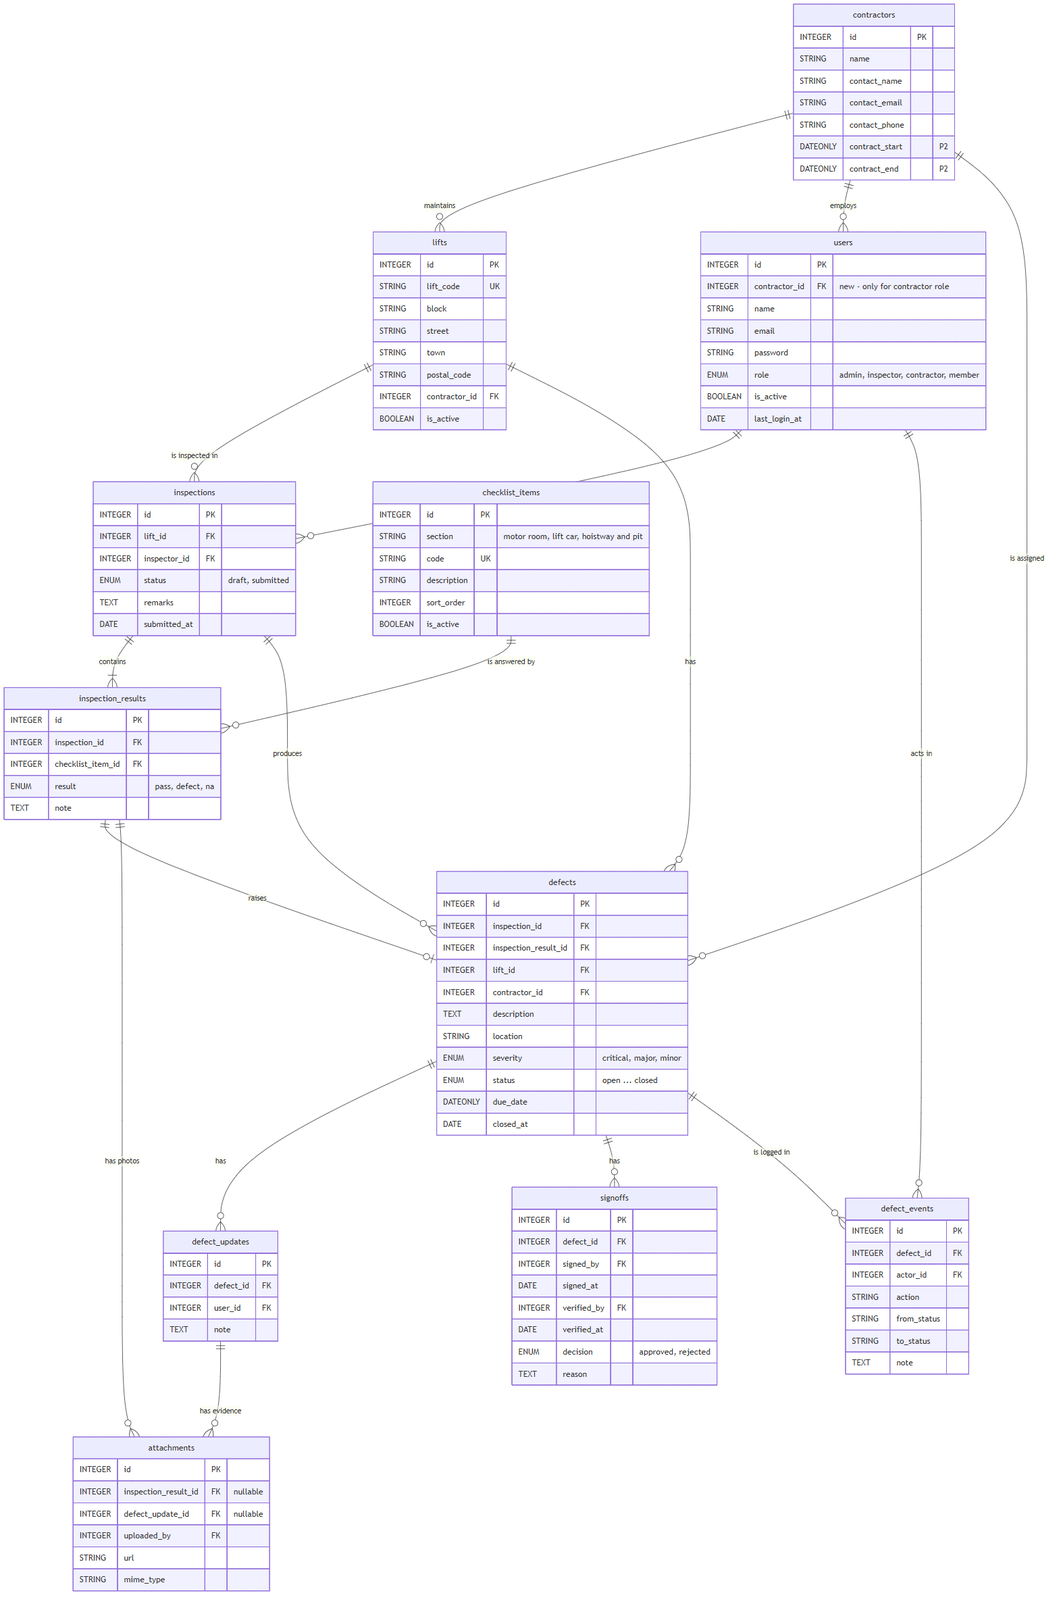
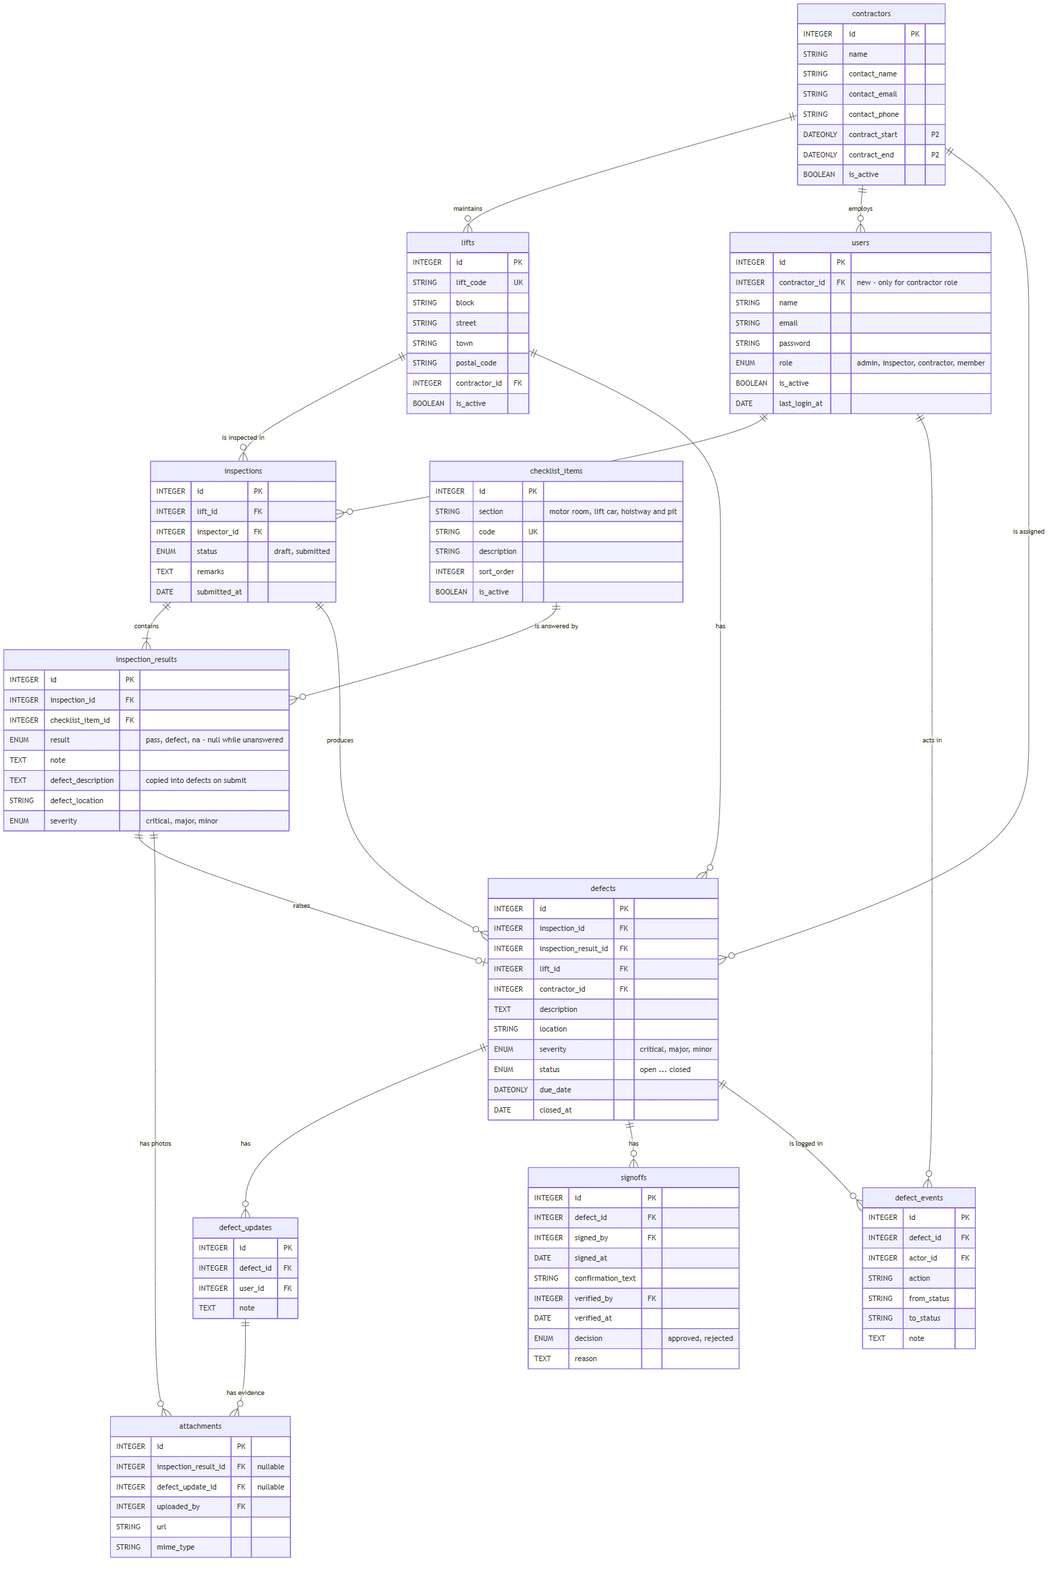
Document the skeleton and how to work independently
Replace the wait-for-each-other build order with the skeleton model:
file ownership, the only cross-team contact points, the full API
contract, and the db:seed command. Update the ER diagram for the new
columns.

diff --git a/design/feature-dependencies.md b/design/feature-dependencies.md
@@ -51,30 +51,88 @@ Changes to make in `IT Innovation Features.docx` before building. Most remove du
 
 ---
 
-## Dependency Table
+## Working Independently
 
-| Feature / What Needs It | Owned By | Depends On | Owned By | Type | Can Mock? |
-|--------------------------|----------|-----------|----------|------|-----------|
-| Lift picker, auto-filled lift and contractor (F01.1, F01.2) | Kandha | `lifts`, `contractors` tables + `GET /api/lifts?q=` | Kwan | DB + API | Yes - seed rows |
-| Inspector ID and timestamp (F01.8) | Kandha | `req.user` from `authenticate` | Group | Auth | N/A - exists |
-| Defect creation on submit (F02.1) | Si Qi | `inspections`, `inspection_results` tables | Kandha | DB | Yes - seed a submitted inspection |
-| Inspection submit creates defects (F01.10) | Kandha | `defectService.createFromInspection()` | Si Qi | Service | Yes - no-op until Si Qi's service lands |
-| Auto-assign to contractor (F02.4) | Si Qi | `lifts.contractor_id` | Kwan | DB | Yes - seed rows |
-| Contractor inbox (F03.2) | Jerald | `users.contractor_id`, `defects` table | Kwan, Si Qi | DB | Yes - seed a contractor user + defects |
-| Acknowledge, sign-off, verify (F03.3, F03.7, F03.8) | Jerald | `defectService.transition()` | Si Qi | Service | Yes - update status directly in dev only |
-| Photo evidence on checklist (F01.7) | Kandha | Upload service + `attachments` table | Jerald | Service | Yes - skip photos until it lands |
-| Defect history, sign-off history (F02.10, F03.10) | Si Qi, Jerald | `defect_events` table + `logEvent()` | Kwan | DB | Yes - skip log write in dev |
-| Overview counts (F08) | Si Qi | `defects`, `inspections` read access | Si Qi, Kandha | DB (read) | Yes - seed data |
-| Inspection export (F05.3) | Kandha | Report/export helper | Si Qi | Service | Yes - build own CSV first, merge later |
-| All protected routes | Everyone | `authenticate` + `authorise(...roles)` | Group | Auth | N/A - exists |
+Nobody waits for anybody. The skeleton PR (`feature/skeleton`) already holds every table, model, router, page route, seed row and cross-team function, so each person builds only inside their own files.
+
+**Three rules:**
+
+1. **Only the owner writes to their own tables.** Everyone else goes through the owner's function (table below). Owners can then change their internals without breaking anyone.
+2. **Build against the seed data, not each other's screens.** `npm run db:seed` puts a defect in every status, so the contractor inbox, verification and overview all have data before the checklist exists.
+3. **Mock other people's functions in your tests** (`jest.mock('../../src/services/defectService')`). Your CI passes whether or not they have finished.
+
+### Who owns which files
+
+| Member | Backend | Frontend |
+|--------|---------|----------|
+| Kwan | `routes/liftRoutes.js`, `contractorRoutes.js`, `userRoutes.js`, `services/auditService.js`, `seed.js`, models `Contractor`, `Lift`, `DefectEvent` | `pages/lifts/`, `pages/admin/` |
+| Kandha | `routes/inspectionRoutes.js`, models `ChecklistItem`, `Inspection`, `InspectionResult` | `pages/inspections/` |
+| Si Qi | `routes/defectRoutes.js`, `services/defectService.js`, model `Defect` | `pages/defects/`, `pages/overview/`, `components/StatusBadge.jsx` |
+| Jerald | `routes/rectificationRoutes.js`, `services/attachmentService.js`, models `DefectUpdate`, `Attachment`, `Signoff` | `pages/contractor/`, `components/PhotoUpload.jsx` |
+
+Add your own controllers, services and validators as new files (e.g. `controllers/liftController.js`). The shared files (`models/index.js`, `routes/index.js`, `App.jsx`, `router/routes.js`) should not need changes. If they do, tell the team first.
+
+### The only contact points
+
+Every cross-team call goes through one of these. They already work in the skeleton, so you can call them on day 1.
+
+| Function or component | Owner | Called by | State in the skeleton |
+|-----------------------|-------|-----------|-----------------------|
+| `defectService.createFromInspection(inspectionId, { transaction })` | Si Qi | Kandha's submit | Works: one `open` defect per failed item, lift's contractor, due date from severity, safe to call twice |
+| `defectService.transition(defectId, toStatus, user, { note, reason, transaction })` | Si Qi | Jerald's acknowledge, update, sign-off and verify | Works: enforces the status table, role and company, logs history |
+| `defectService.isOverdue(defect, today)` | Si Qi | Everyone (backend) | Works |
+| `auditService.logEvent({ defectId, actorId, action, fromStatus, toStatus, note }, { transaction })` | Kwan | Si Qi's `transition()`, anyone recording history | Works |
+| `attachmentService.storePhoto(...)` + `createAttachment(...)` | Jerald | Kandha (checklist photos) | `storePhoto` is a stub returning a placeholder URL |
+| `<StatusBadge status dueDate />` | Si Qi | Kandha, Jerald | Works, including the Overdue pill |
+| `<PhotoUpload onUploaded label />` | Jerald | Kandha | Stub: disabled button |
+| URL `/inspections/new?liftId=<id>` | Kandha | Kwan's Lifts page | Routed to Kandha's page |
+| URL `/defects/<id>` | Jerald | Si Qi's Defects page, Kandha's history | Routed to Jerald's page |
+
+`req.user` now also carries `contractorId` (the lift company of a contractor account, `null` otherwise), so contractor routes can filter by company without another query.
 
 ---
 
-## Shared Contracts (agree before coding)
+## API Contract
+
+Every endpoint below is mounted and role-guarded in the skeleton, and answers `501 NOT_IMPLEMENTED` until its owner builds it. `tests/shared/skeletonRoutes.test.js` checks the guards - when you build an endpoint, move its row out of that test into your own tests.
+
+| Method | Path | Roles | Owner | Purpose |
+|--------|------|-------|-------|---------|
+| GET | `/api/lifts?q=` | inspector, admin | Kwan | Search lifts by code, block or street |
+| GET | `/api/lifts/:id` | inspector, admin | Kwan | Lift with its contractor |
+| POST / PATCH | `/api/lifts`, `/api/lifts/:id` | admin | Kwan | Create, edit |
+| POST | `/api/lifts/import` | admin | Kwan | CSV/Excel import -> accepted count + rejected rows with reasons |
+| GET | `/api/contractors`, `/api/contractors/:id` | inspector, admin | Kwan | List, detail with lifts |
+| POST / PATCH | `/api/contractors`, `/api/contractors/:id` | admin | Kwan | Create, edit |
+| GET / POST / PATCH | `/api/users`, `/api/users/:id` | admin | Kwan | User management, link contractor accounts |
+| GET | `/api/checklist-items` | inspector, admin | Kandha | Active items by section |
+| POST | `/api/inspections` | inspector | Kandha | `{ liftId }` -> new draft |
+| GET | `/api/inspections?liftId=&from=&to=` | inspector, admin | Kandha | History |
+| GET | `/api/inspections/export` | inspector, admin | Kandha | CSV |
+| GET | `/api/inspections/:id` | inspector, admin | Kandha | Inspection, answers, defects |
+| PUT | `/api/inspections/:id/results` | inspector | Kandha | Save draft answers |
+| POST | `/api/inspections/:id/submit` | inspector | Kandha | Validate, submit, create defects |
+| GET | `/api/defects?contractorId=&status=&severity=&overdue=&liftId=` | inspector, admin | Si Qi | Filtered list |
+| GET | `/api/defects/export` | inspector, admin | Si Qi | CSV |
+| GET | `/api/defects/:id` | inspector, admin, contractor (own company) | Si Qi | Detail |
+| GET | `/api/defects/:id/history` | inspector, admin, contractor (own company) | Si Qi | `defect_events` |
+| PATCH | `/api/defects/:id/assign` | admin | Si Qi | Reassign with reason |
+| GET | `/api/overview?from=&to=` | admin | Si Qi | Counts |
+| GET | `/api/inbox?status=` | contractor | Jerald | Own company's defects |
+| POST | `/api/defects/:id/acknowledge` | contractor | Jerald | `open` -> `acknowledged` |
+| POST | `/api/defects/:id/updates` | contractor | Jerald | Progress note; first one -> `in_progress` |
+| POST | `/api/defects/:id/signoff` | contractor | Jerald | Needs evidence -> `pending_verification` |
+| POST | `/api/defects/:id/verify` | inspector, admin | Jerald | `{ decision, reason }` -> `closed` or back to `in_progress` |
+| GET | `/api/defects/:id/signoffs` | inspector, admin, contractor (own company) | Jerald | Sign-off history |
+| POST | `/api/attachments` | inspector, contractor | Jerald | Upload a photo -> `{ id, url }` |
+
+---
+
+## Shared Contracts
 
 ### Defect status values
 
-`open`, `acknowledged`, `in_progress`, `pending_verification`, `closed`. Transitions and who may make them are in [workflow-diagram.md](workflow-diagram.md). Si Qi owns `defectService.transition(defectId, toStatus, user, { note, reason })`; everyone else calls it.
+`open`, `acknowledged`, `in_progress`, `pending_verification`, `closed`. Transitions and who may make them are in [workflow-diagram.md](workflow-diagram.md), and in code as `TRANSITIONS` in `services/defectService.js`.
 
 ### Severity and due dates
 
@@ -84,52 +142,44 @@ Changes to make in `IT Innovation Features.docx` before building. Most remove du
 | `major` | TBC with EMS (placeholder: 7) |
 | `minor` | TBC with EMS (placeholder: 14) |
 
-The day counts live in one config object in Si Qi's service, so changing them after the EMS answer is a one-line edit.
+The day counts live in `SEVERITY_DUE_DAYS` in `services/defectService.js`, so changing them after the EMS answer is a one-line edit.
 
 ### Display IDs
 
 `INS-000123` for inspections and `DEF-000123` for defects, built from the primary key. Not stored as a separate column.
 
-### Shared components
+### Changing a shared table
 
-| Component | Builder | Used by |
-|-----------|---------|---------|
-| `LiftPicker` | Kwan | Kandha |
-| Toasts (success / error after every action, F06.4) | Kwan | Everyone |
-| `PhotoUpload` + `POST /api/attachments` | Jerald | Kandha, Jerald |
-| `StatusBadge` (incl. overdue flag) | Si Qi | Si Qi, Jerald, Kandha |
-| `ChecklistItemRow` | Kandha | Kandha |
-
-### Hotspot files
-
-`models/index.js`, `routes/index.js`, `App.jsx`, `routes.js`, `AppLayout.jsx`: add only your own lines and merge small PRs often.
+The skeleton migration (`20261113000000-create-spot-check-tables.js`) is never edited once applied. To change your own table, add a new migration and update your own model file, then post in the group chat which columns changed.
 
 ---
 
 ## Suggested Build Order
 
 ```
-Wave 0 - Kwan (everyone blocked until this is done)
-  ├── One schema PR: every table in er-diagram.md + migrations
-  │   + associations in models/index.js
-  ├── Seed: lifts, contractors, contractor logins, 25 checklist items
-  ├── Si Qi: stub defectService.transition()
-  └── Jerald: stub upload service (POST /api/attachments)
-      Done when: npm run db:migrate + seed run cleanly on a fresh database
+Skeleton - done (feature/skeleton PR)
+  ├── Every table, model, association, router, page route and nav entry
+  ├── Seed: 3 contractors, 8 lifts, 25 checklist items, demo logins,
+  │         one defect in every status (two overdue)
+  └── Working contracts: createFromInspection(), transition(), logEvent(),
+      StatusBadge; stubs: storePhoto(), PhotoUpload
+      After merge: one person runs npm run db:migrate + npm run db:seed on the
+      shared database and shares the demo passwords privately
 
-Wave 1 - P0 loop, all four in parallel
-  ├── Kwan:   GET /api/lifts (search), lift + contractor CRUD, bulk lift import
+Wave 1 - P0, all four in parallel, nobody waiting
+  ├── Kwan:   lift search + detail, lift and contractor CRUD, bulk lift import
   ├── Kandha: checklist page, Pass/Defect, defect capture, submit
-  ├── Si Qi:  createFromInspection(), auto-assign, due dates, defects list by contractor
-  └── Jerald: contractor inbox, acknowledge, progress, evidence, e-sign, verify
-      Done when: inspector fails an item -> defect lands in the contractor's inbox
+  ├── Si Qi:  defect list by contractor, detail, due-date rules, reassign
+  └── Jerald: inbox, acknowledge, progress, evidence, e-sign, verify
+      Done when: everyone runs the whole loop together once -
+                 inspector fails an item -> defect lands in the contractor's inbox
                  -> contractor signs off -> inspector approves -> Closed
 
 Wave 2 - P1 widening
-  ├── Kwan:   import validation + summary, user management, audit log
+  ├── Kwan:   import validation + summary, user management, audit log screens
   ├── Kandha: All Pass, drafts, photos, history, inspection report
-  ├── Si Qi:  filters, overdue flag, history, overview counts
-  └── Jerald: sign-off history
+  ├── Si Qi:  filters, overdue flag, history, export, overview counts
+  └── Jerald: real photo storage, sign-off history
       Done when: every P1 acceptance criterion has a passing test
 
 Wave 3 - P2 and polish (only items EMS confirms)
@@ -143,7 +193,7 @@ Wave 3 - P2 and polish (only items EMS confirms)
 
 ## Flags for Team Discussion
 
-**1. One schema PR up front.** Kwan writes every core migration in Wave 0 so four people are not editing `models/index.js` at once and Si Qi's `defects` table is not waiting on Kandha's `inspections` table.
+**1. Skeleton first (done).** The skeleton PR creates every table, route and page at once, so nobody edits `models/index.js` or waits on another person's table. Merge it before starting Wave 1.
 
 **2. Public sign-up.** Sign-up creates a `member`, but inspectors and contractors are created by admin. Decide whether to turn sign-up off or keep it for the rubric.
 

diff --git a/design/architecture.md b/design/architecture.md
@@ -4,7 +4,7 @@
 
 Diagram: [architecture-diagram.md](architecture-diagram.md). Tables: [er-diagram.md](er-diagram.md). Pages: [screens.md](screens.md).
 
-Items marked **(planned)** are not in the repo yet; everything else is installed and in use.
+Items marked **(planned)** are not in the repo yet. **(placeholder)** pages and **(stub)** functions exist from the skeleton PR with their final names and signatures, but their owner still has to build them. Everything else is installed and in use.
 
 ---
 
@@ -62,21 +62,21 @@ src/
 ├── api/             # Shared Axios instance (exists)
 ├── components/      # Shared components (exists)
 │   ├── ui/          # shadcn/ui primitives (exists: button, card, input)
-│   ├── LiftPicker.jsx       # (planned - Kwan)   search and pick a lift
-│   ├── PhotoUpload.jsx      # (planned - Jerald) photo upload used by checklist and repair evidence
-│   └── StatusBadge.jsx      # (planned - Si Qi)  defect status + overdue flag
+│   ├── PagePlaceholder.jsx  # (exists - shared) temporary body for skeleton pages
+│   ├── PhotoUpload.jsx      # (stub - Jerald)    photo upload used by checklist and repair evidence
+│   └── StatusBadge.jsx      # (exists - Si Qi)   defect status + overdue flag
 ├── context/         # AuthContext (exists)
 ├── hooks/           # useAuth (exists)
 ├── layouts/         # AppLayout - sidebar on desktop, top bar on mobile (exists)
 ├── lib/             # cn(), formatCurrency(), formatDate() (exists)
 ├── pages/
 │   ├── auth/        # Login (exists)
-│   ├── lifts/       # (planned - Kwan)   Lifts page, inspector home
-│   ├── admin/       # Admin tabs: lifts, contractors, users, import (exists as a stub - Kwan)
-│   ├── inspections/ # (planned - Kandha) checklist, history, report
-│   ├── defects/     # (planned - Si Qi)  defects by contractor
-│   ├── overview/    # (planned - Si Qi)  admin home with counts
-│   └── contractor/  # (planned - Jerald) inbox and defect detail
+│   ├── lifts/       # (placeholder - Kwan)   Lifts page, inspector home
+│   ├── admin/       # (placeholder - Kwan)   Admin tabs: lifts, contractors, users, import
+│   ├── inspections/ # (placeholder - Kandha) checklist, history, report
+│   ├── defects/     # (placeholder - Si Qi)  defects by contractor
+│   ├── overview/    # (placeholder - Si Qi)  admin home with counts
+│   └── contractor/  # (placeholder - Jerald) inbox and defect detail
 ├── router/          # ProtectedRoute, RoleRoute, NAV_ROUTES, ROLE_HOMES (exists)
 └── schemas/         # Yup schemas for forms (exists)
 ```
@@ -86,17 +86,17 @@ src/
 ```
 src/
 ├── config/          # Sequelize connection + testConnection (exists)
-├── models/          # One file per model; all associations in models/index.js (exists: User)
-├── routes/          # One router per resource, mounted under /api (exists: auth)
-├── controllers/     # req/res only (exists: auth)
+├── models/          # One file per model; all associations in models/index.js (exists: every table)
+├── routes/          # One router per owner, all mounted under /api (exists; placeholders answer 501)
+├── controllers/     # req/res only (exists: auth; owners add their own)
 ├── services/        # Business logic, no req/res (exists: userService)
 │   │                #   liftService.js        (planned - Kwan)   lift and contractor records, search
 │   │                #   importService.js      (planned - Kwan)   parse, validate and commit bulk lift imports
-│   │                #   auditService.js       (planned - Kwan)   logEvent() - writes defect_events rows
+│   │                #   auditService.js       (exists - Kwan)    logEvent() - writes defect_events rows
 │   │                #   inspectionService.js  (planned - Kandha) drafts, submit, history
-│   │                #   defectService.js      (planned - Si Qi)  createFromInspection(), transition(), due dates, overdue
+│   │                #   defectService.js      (exists - Si Qi)   createFromInspection(), transition(), due dates, overdue
 │   │                #   reportService.js      (planned - Si Qi)  filtered reports and CSV export for inspections and defects
-│   │                #   attachmentService.js  (planned - Jerald) photo storage
+│   │                #   attachmentService.js  (stub - Jerald)    photo storage
 │   │                #   signoffService.js     (planned - Jerald) contractor sign-off and inspector verification
 ├── middleware/      # authenticate (JWT) and authorise(...roles) (exists)
 ├── validators/      # Yup schemas for request bodies (exists)

diff --git a/AGENTS.md b/AGENTS.md
@@ -59,6 +59,7 @@ Do **not** commit `.env`, run `git push` to `main`, or install global packages a
 | `backend/` | `npm run db:test` | Check database connection, list tables |
 | `backend/` | `npm run db:migrate` | Apply pending migrations to the database in `DATABASE_URL` (`-- --undo` reverts the last one) |
 | `backend/` | `npm run db:create-user -- --email <e> --name "<n>" --role <admin\|inspector\|contractor\|member>` | Create a real login account; prints a generated password (`--reset` to change an existing one) |
+| `backend/` | `npm run db:seed` | Load demo contractors, lifts, checklist, logins and one defect in every status. Safe to re-run; the database is shared, so one person runs it |
 | `frontend/` | `npm run dev` | Vite dev server, port 5173, proxies `/api` → `localhost:3000` |
 | `frontend/` | `npm run build` | Production build - must succeed (CI checks it) |
 | `frontend/` | `npm test` | Jest + React Testing Library |
@@ -136,7 +137,8 @@ design/
   - Error: `{ success: false, code: 'SOME_CODE', message: '...' }`
   - Validation failure: status 422, code `VALIDATION_ERROR`
 - **Validation:** validate every request body with a Yup schema from `src/validators` using `{ abortEarly: false, stripUnknown: true }`.
-- **Auth:** protect routes with `authenticate`; restrict by role with `authorise('admin')`. `req.user` holds `{ sub, name, email, role }`.
+- **Auth:** protect routes with `authenticate`; restrict by role with `authorise('admin')`. `req.user` holds `{ sub, name, email, role, contractorId }` (`contractorId` is the lift company of a contractor account, `null` otherwise).
+- **Cross-team code:** only the owner writes to their own tables; call the other owner's function instead (`defectService.transition()`, `createFromInspection()`, `auditService.logEvent()`, `attachmentService`). Every table, router and page route already exists from the skeleton PR - build inside your own files, and in tests `jest.mock` other people's services. Ownership table: `design/feature-dependencies.md` ("Working Independently").
 - **Models:** `underscored: true`, explicit `tableName`, snake_case columns. Register every new model and its associations in `models/index.js`.
 - **Module style:** CommonJS (`require` / `module.exports`). Don't convert to ESM.
 

diff --git a/design/er-diagram.md b/design/er-diagram.md
@@ -2,7 +2,7 @@
 
 **Lift Spot-Check V2 (EMS problem statement 12b)**
 
-Planned tables for the P0 and P1 features. `users` already exists; everything else is new and lands in one schema PR (see [feature-dependencies.md](feature-dependencies.md), Wave 0). Columns are snake_case, as in the migrations.
+Tables for the P0 and P1 features, created by the skeleton migration `backend/migrations/20261113000000-create-spot-check-tables.js` (see [feature-dependencies.md](feature-dependencies.md#working-independently)). Columns are snake_case, as in the migrations.
 
 > Preview in VS Code with `Ctrl+Shift+V` (needs the *Markdown Preview Mermaid Support* extension recommended in `.vscode/extensions.json`). No extension? Open the image version: [images/er-diagram.png](images/er-diagram.png).
 
@@ -44,6 +44,7 @@ erDiagram
         STRING contact_phone
         DATEONLY contract_start "P2"
         DATEONLY contract_end "P2"
+        BOOLEAN is_active
     }
 
     lifts {
@@ -79,8 +80,11 @@ erDiagram
         INTEGER id PK
         INTEGER inspection_id FK
         INTEGER checklist_item_id FK
-        ENUM result "pass, defect, na"
+        ENUM result "pass, defect, na - null while unanswered"
         TEXT note
+        TEXT defect_description "copied into defects on submit"
+        STRING defect_location
+        ENUM severity "critical, major, minor"
     }
 
     defects {
@@ -118,6 +122,7 @@ erDiagram
         INTEGER defect_id FK
         INTEGER signed_by FK
         DATE signed_at
+        STRING confirmation_text
         INTEGER verified_by FK
         DATE verified_at
         ENUM decision "approved, rejected"

diff --git a/README.md b/README.md
@@ -81,6 +81,10 @@ To get a working login on a fresh database, run `npm run db:migrate` once, then 
 `npm run db:create-user -- --email <email> --name "<name>" --role <admin|inspector|contractor|member>`.
 The script prints the password once and stores only its bcrypt hash - share it privately, never commit it.
 
+For demo data (contractors, lifts, the checklist, demo logins and one defect in every status), run
+`npm run db:seed` after `db:migrate`. It is safe to run twice. The database is shared, so one person
+runs it and shares the printed demo passwords privately.
+
 ## Project structure
 
 ```

diff --git a/design/screens.md b/design/screens.md
@@ -59,7 +59,7 @@ flowchart LR
 | Overview | `/overview` | admin | Si Qi | admin |
 | Admin | `/admin` | admin | Kwan | - |
 
-`ROLE_HOMES` in `frontend/src/router/routes.js` changes from `/dashboard` to the "Home for" column once these pages exist.
+Every page above is routed, guarded and in the nav already (skeleton PR), and `ROLE_HOMES` in `frontend/src/router/routes.js` matches the "Home for" column. Members (self sign-up) land on `/dashboard`.
 
 ---
 
